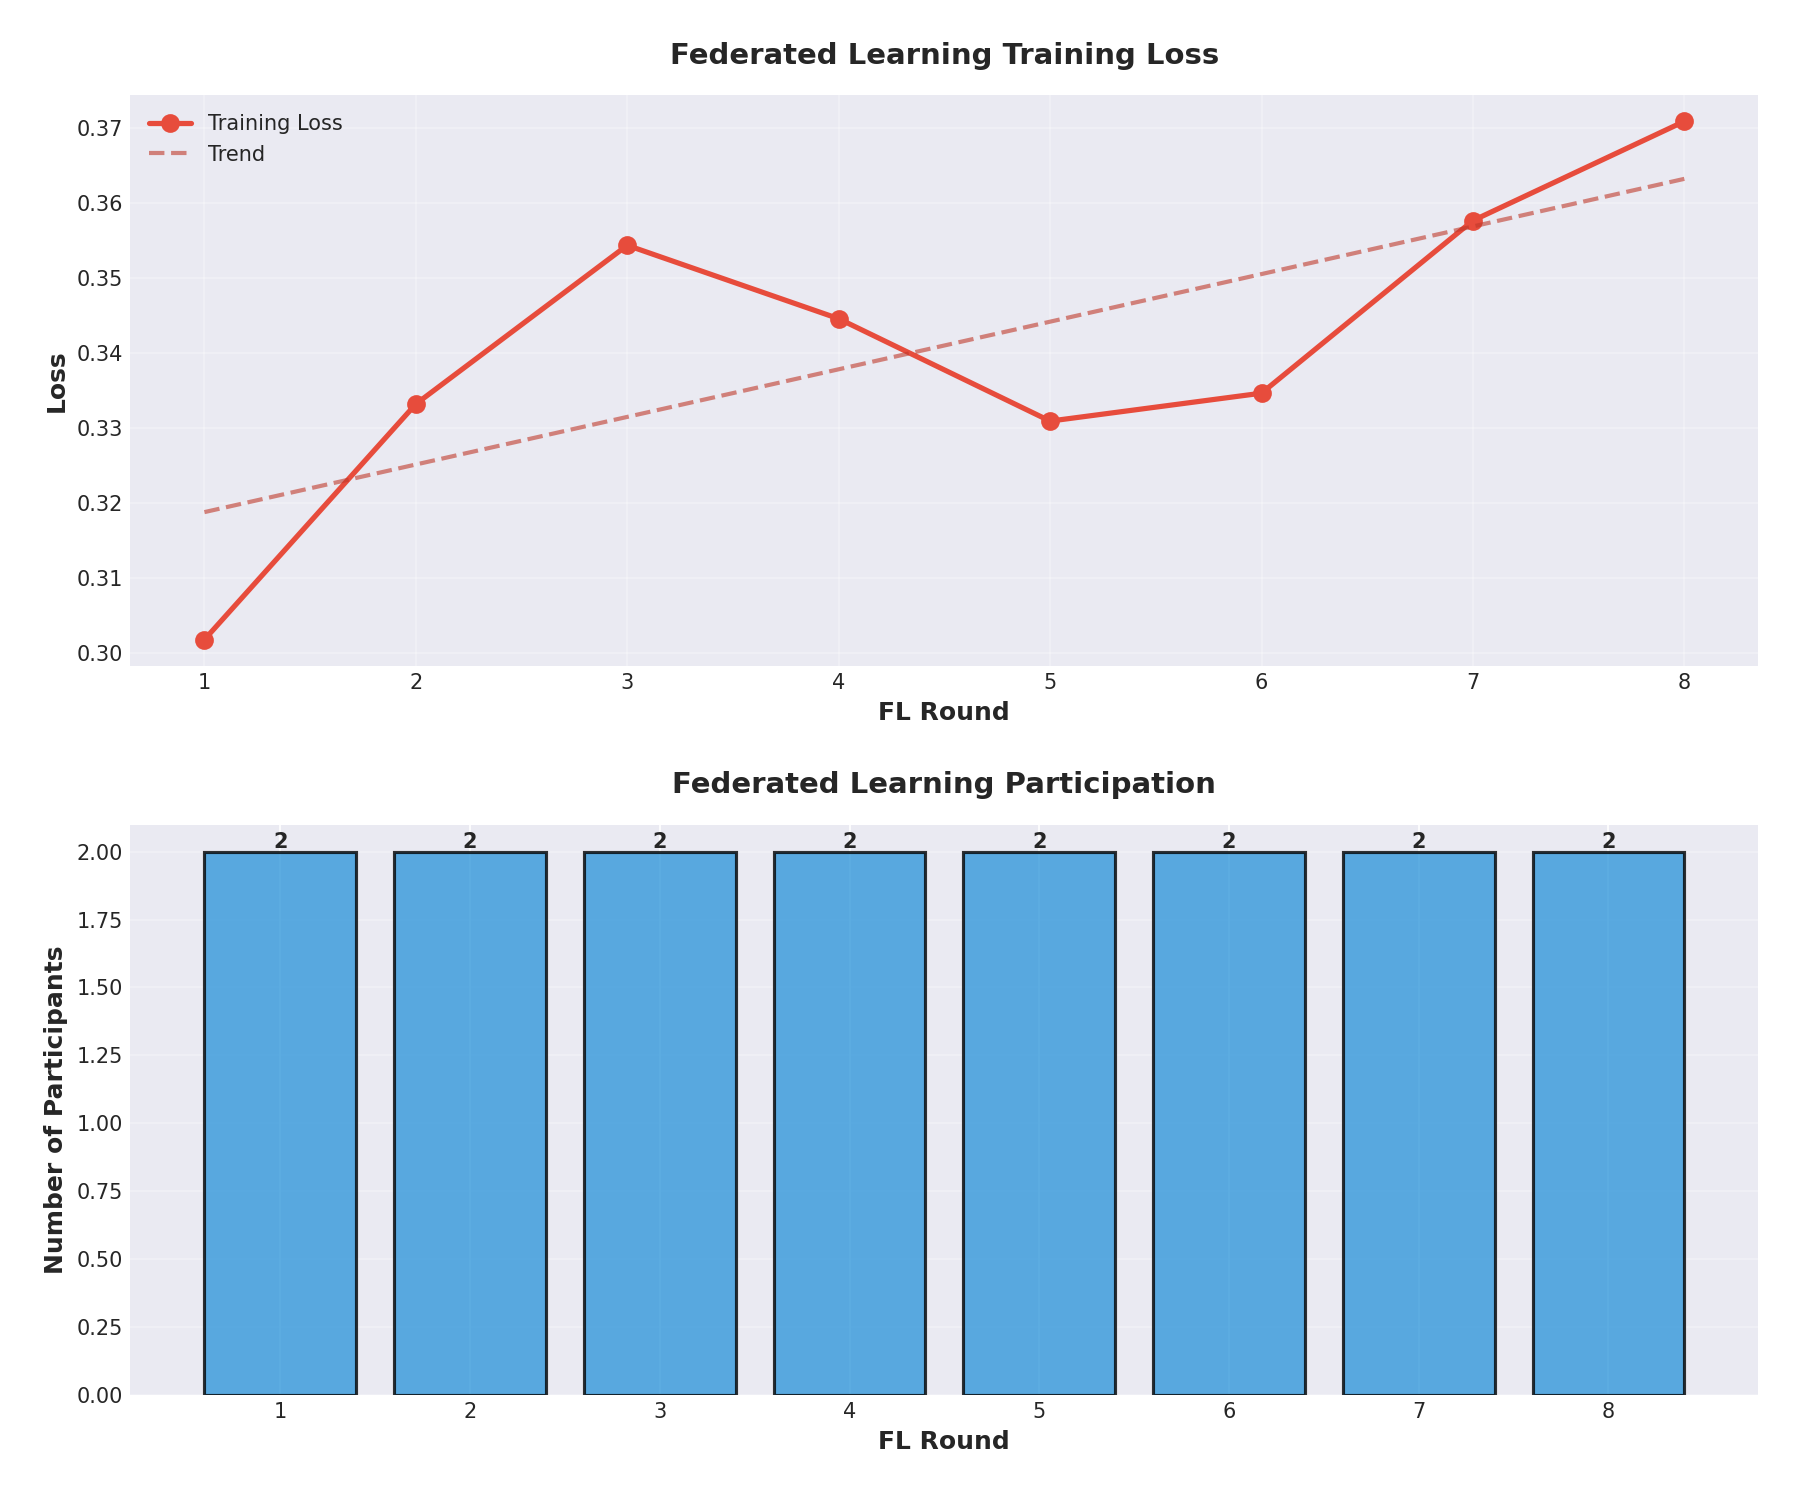
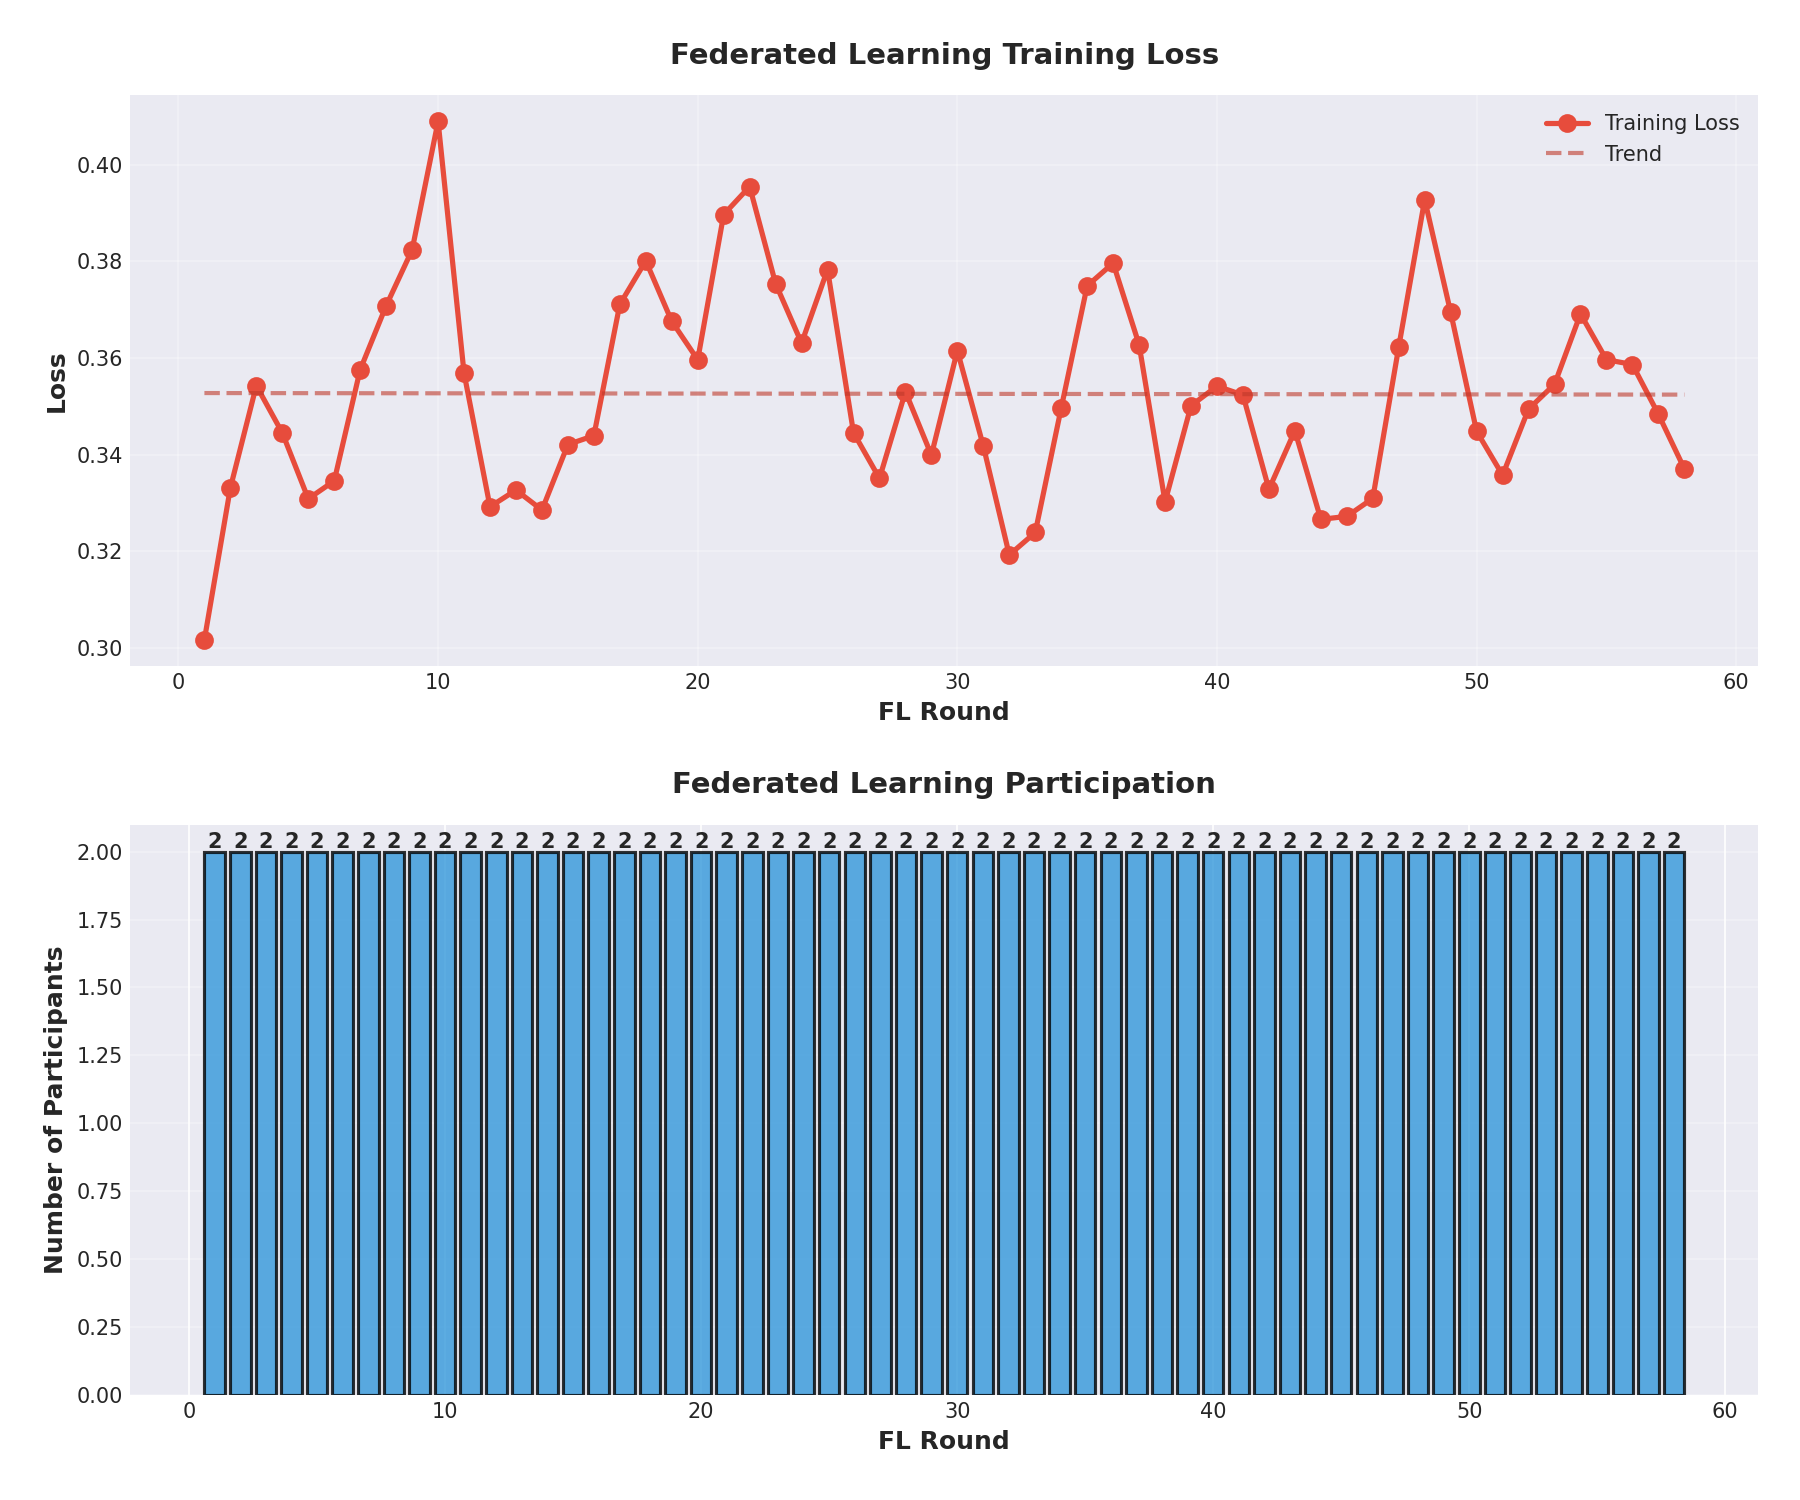
fixed local training and evaluation

diff --git a/actors/household_actor.py b/actors/household_actor.py
@@ -175,36 +175,69 @@ class HouseholdActor(Actor):
         
         logger.info(f"[{self.household_id}] Training requested - have {len(self.consumption_history)} data points")
         
-        if len(self.consumption_history) < 3:
-            logger.warning(f"{self.household_id} has insufficient data for training (need 3+, have {len(self.consumption_history)})")
+        if len(self.consumption_history) < 6:
+            logger.warning(f"{self.household_id} has insufficient data for training (need 6+, have {len(self.consumption_history)})")
             return
         
-        # Simulate local training
+        # REAL local training with gradient descent
         import numpy as np
         from sklearn.metrics import mean_squared_error, mean_absolute_error
         
         local_weights = global_model["weights"].copy()
         local_bias = global_model["bias"]
         
-        # Add some noise to simulate training
-        local_weights += np.random.randn(24) * 0.01
-        local_bias += np.random.uniform(-0.01, 0.01)
+        # train/test split (80% train, 20% test) 
+        split_idx = int(len(self.consumption_history) * 0.8)
+        train_data = self.consumption_history[:split_idx]  # Older data for training
+        test_data = self.consumption_history[split_idx:]   # Newer data for testing
+        
+        # Training hyperparameters
+        learning_rate = 0.01
+        epochs = 10
+        
+        logger.info(
+            f"[{self.household_id}] Starting training on {len(train_data)} data points "
+            f"(test set: {len(test_data)} points) for {epochs} epochs..."
+        )
+        
+        # Gradient descent training - ONLY on train_data
+        for epoch in range(epochs):
+            total_loss = 0.0
+            
+            for data in train_data:
+                hour = data.timestamp.hour
+                actual_consumption = data.consumption
+                
+                # Forward pass: prediction
+                if 0 <= hour < 24:
+                    predicted_consumption = local_weights[hour] + local_bias
+                    
+                    # Calculate error
+                    error = actual_consumption - predicted_consumption
+                    total_loss += error ** 2
+                    # Backward pass: update weights and bias
+                    local_weights[hour] += learning_rate * error
+                    local_bias += learning_rate * error * 0.1  # Smaller update for bias
+            
+            avg_loss = total_loss / len(train_data)
+            if epoch % 3 == 0:
+                logger.info(f"[{self.household_id}] Epoch {epoch+1}/{epochs} - Train Loss: {avg_loss:.4f}")
         
         logger.info(f"{self.household_id} completed local training")
         
-        # Evaluate model on local data
+        # Evaluate model on TEST data
         y_true = []
         y_pred = []
         
-        for data in self.consumption_history[-20:]:  # Last 20 points
+        for data in test_data:  # ← ONLY TEST DATA!
             hour = data.timestamp.hour
             y_true.append(data.consumption)
-            # Simple prediction: weights[hour] + bias
+            # Prediction using trained model
             if 0 <= hour < 24:
                 prediction = local_weights[hour] + local_bias
                 y_pred.append(max(0.0, prediction))
         
-        logger.info(f"[{self.household_id}] Evaluating on {len(y_true)} data points...")
+        logger.info(f"[{self.household_id}] Evaluating on {len(y_true)} TEST data points (unseen during training)...")
         
         # Calculate evaluation metrics (need at least 2 points)
         if len(y_true) >= 2:
@@ -213,7 +246,7 @@ class HouseholdActor(Actor):
             rmse = np.sqrt(mse)
             
             logger.info(
-                f"📊 [{self.household_id}] Local Model Evaluation: "
+                f"📊 [{self.household_id}] Local Model Evaluation (on TEST set): "
                 f"MSE={mse:.4f}, MAE={mae:.4f}, RMSE={rmse:.4f}"
             )
             
@@ -223,7 +256,7 @@ class HouseholdActor(Actor):
                 "RMSE": float(rmse)
             }
         else:
-            logger.warning(f"[{self.household_id}] Insufficient data for evaluation (need 2+, have {len(y_true)})")
+            logger.warning(f"[{self.household_id}] Insufficient test data for evaluation (need 2+, have {len(y_true)})")
             evaluation_metrics = None
         
         # Send updated model back to central with evaluation metrics
